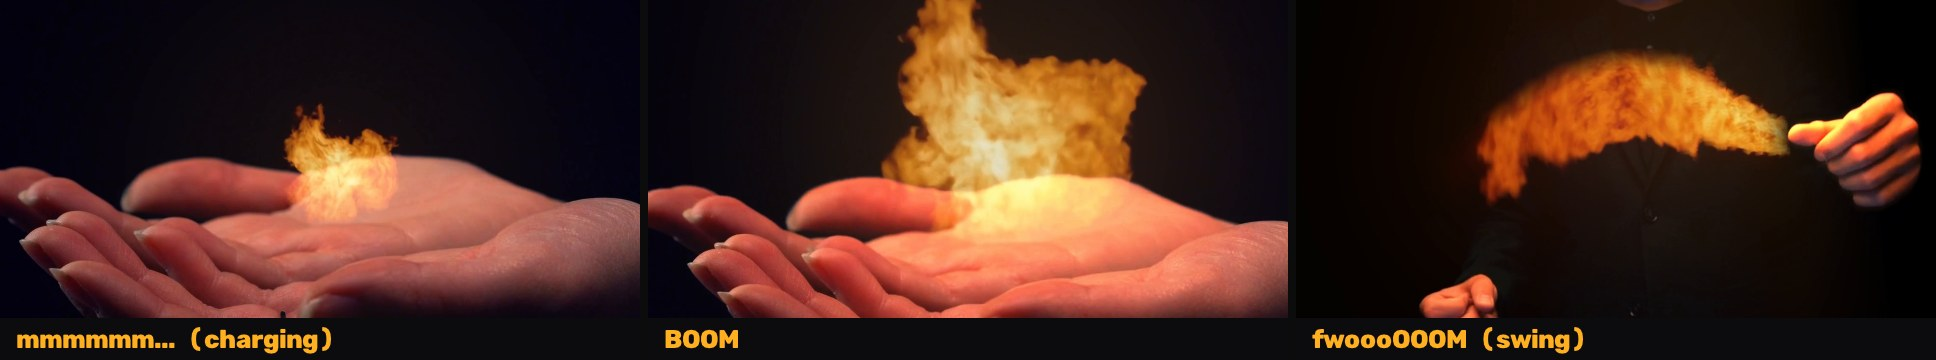
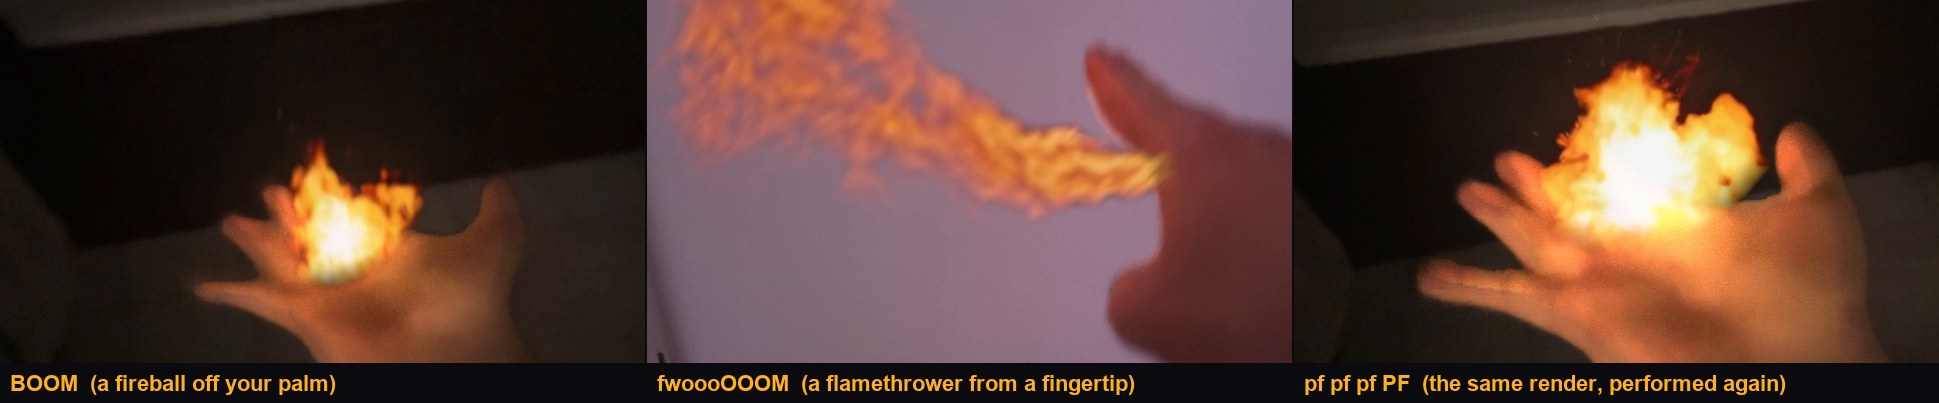
docs: the README's hand shots are the author's own hand and voice

diff --git a/README.md b/README.md
@@ -10,8 +10,8 @@ Hold your hand up to the camera, tap your palm or fingertips, and make the noise
 
 **LTX-2.5** with the **[ainvfx-fluid](https://huggingface.co/AInVFX/ainvfx-fluid)** IC-LoRA by AInVFX (Adrien Toupet) renders the fire once, over black. Cue the Boom tracks your hand and carries the fire on it frame by frame: what was already thrown keeps flying the way you threw it, your fingers hide its root, and it lights your skin. Then **perform it again**: a new rhythm on the same render, with no new render.
 
-![Element bending: a hum charges an ember in the palm, BOOM throws the fireball, a swing whips the flamethrower through the air](media/hand_hero.jpg)
-<sub>Real stock hands ([credits](samples/CREDITS.md)) with test voices. The fire is LTX-2.5 + ainvfx-fluid, rendered once over black and carried on the tracked hand.</sub>
+![Element bending on the author's own hand: BOOM throws a fireball off the palm, a roar is a flamethrower from a fingertip, and the same render performed again as pf pf pf PF](media/hand_hero.jpg)
+<sub>The author's own hand and voice, filmed on a phone. The fire is LTX-2.5 + ainvfx-fluid, rendered once over black and carried on the tracked hand; the third is the first one's render, performed again.</sub>
 
 Or tap or draw anything in your shot ("KA-BOOM" at a jack-o'-lantern, "fwoooOOOM" at a toy dinosaur) and LTX-2.5 renders the effect into the scene, so it lights the room and leaves its mark: a blown-out candle stays out. Each sound picks the effect and sets its frame, size and length. The render's real onset is then measured and moved onto your cue. On 57 test shots, 26 of them on real stock footage, 37 of 42 single hits land within a frame (42 ms) of the cue; straight from the model, none do.
 
